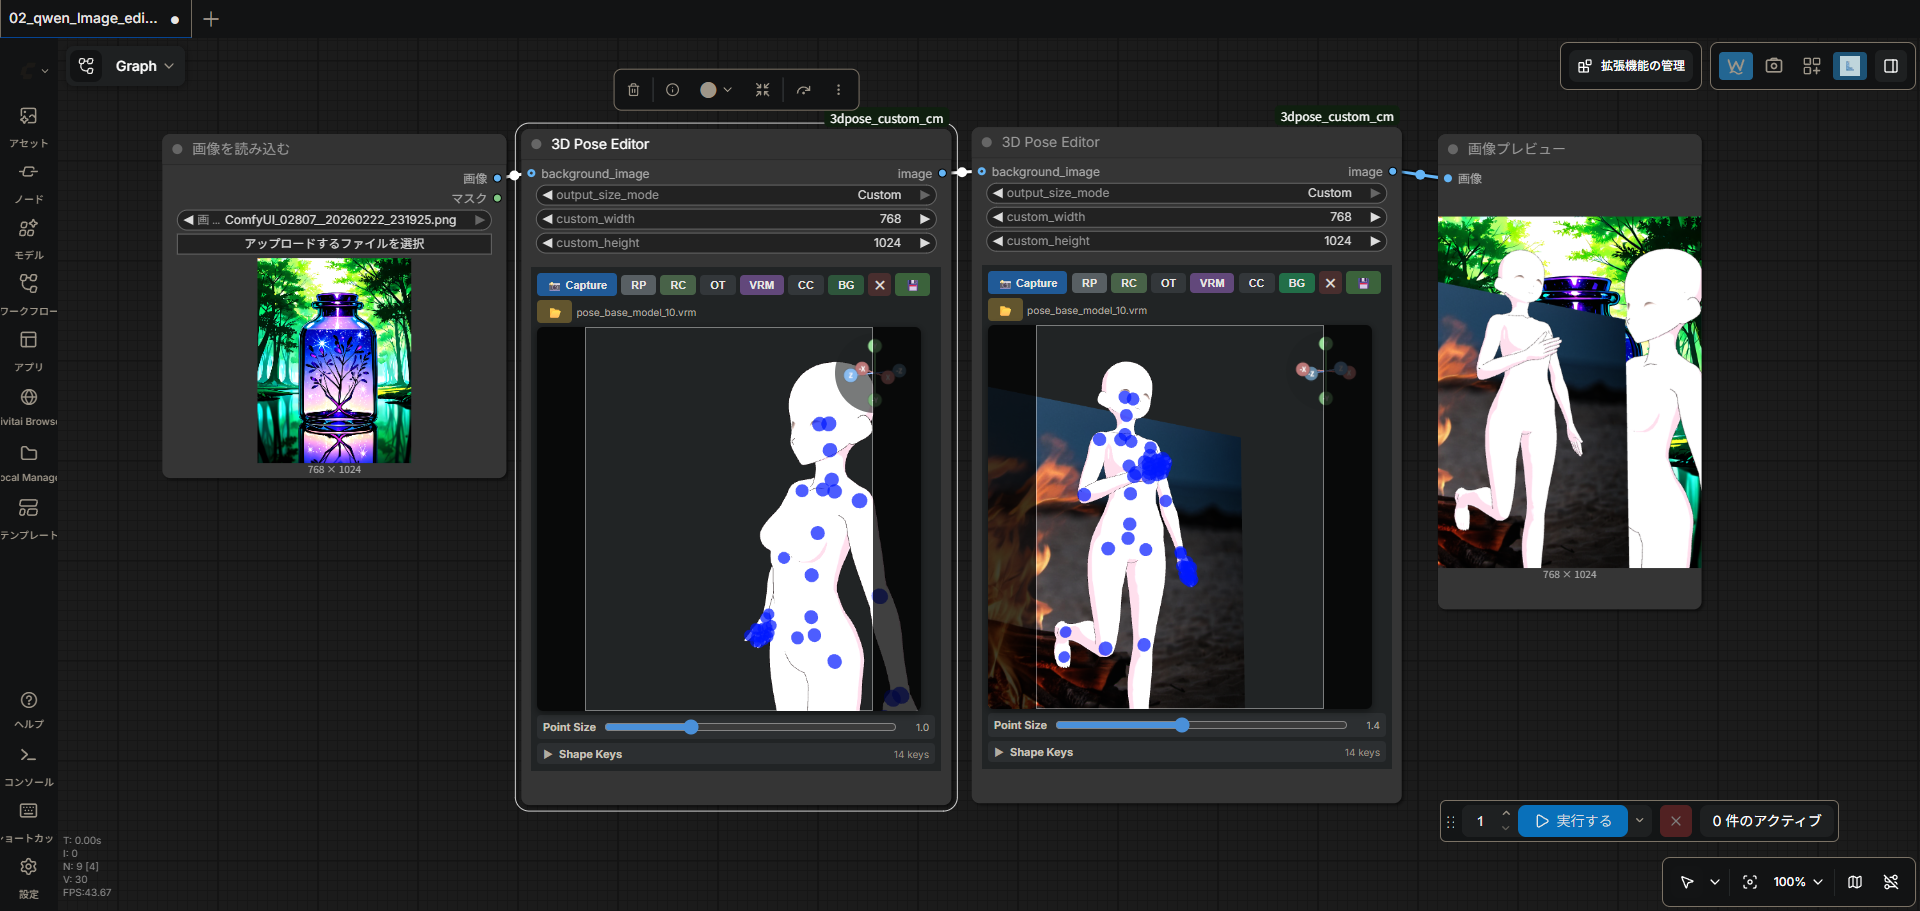
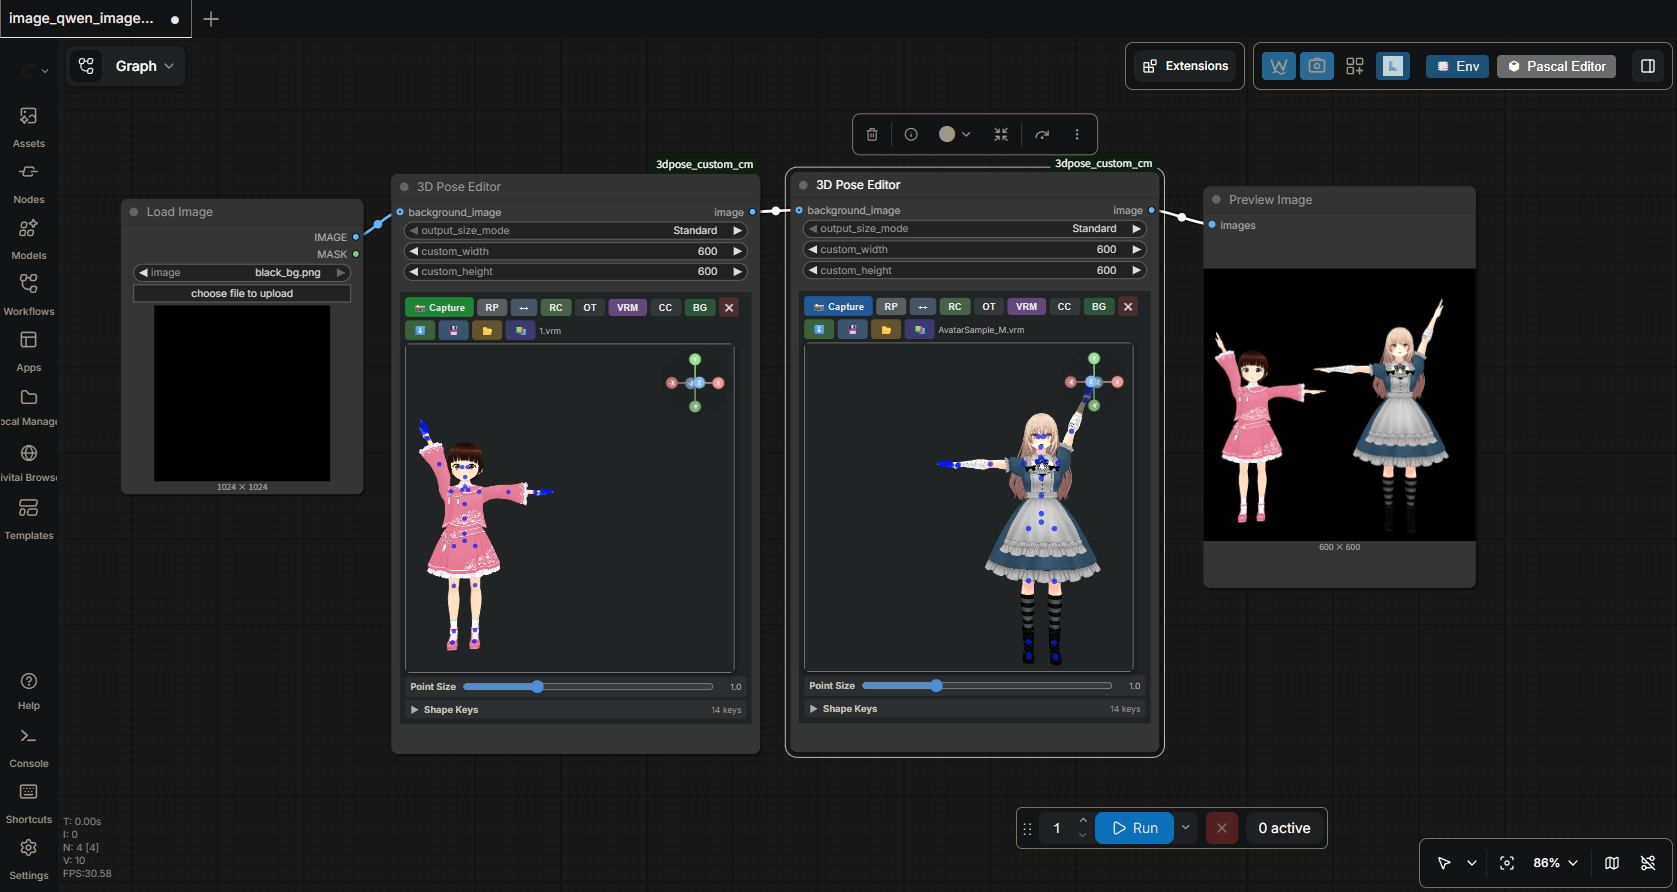
docs: README英語/日本語バイリンガル対応、スクリーンショット更新
- READMEを英語/日本語バイリンガルに全面改訂
  - 英語セクションを先頭に配置
  - ⬇、💾、↔、📚 の全新ボタンをドキュメント化
  - ポーズライブラリ・左右反転・アスペクト比フレームのセクション追加
  - Node I/O と技術仕様を更新
- docs/screenshot_workflow.png を最新UIで更新
- docs/screenshot_pose_library.png を新規追加（ポーズライブラリ画面）

diff --git a/README.md b/README.md
@@ -1,176 +1,267 @@
 # 3D Pose Editor — ComfyUI Custom Node
 
-ComfyUI 上で動作するインタラクティブな 3D ポーズエディタノードです。
-VRM・GLB・GLTF モデルをブラウザから直接読み込み、ボーンをドラッグ操作してポーズを付け、そのままワークフローに出力できます。
+[![Three.js](https://img.shields.io/badge/Three.js-r160-black)](https://threejs.org/)
+[![three-vrm](https://img.shields.io/badge/@pixiv/three--vrm-2.1.0-ff69b4)](https://github.com/pixiv/three-vrm)
+[![ComfyUI](https://img.shields.io/badge/ComfyUI-Custom%20Node-blue)](https://github.com/comfyanonymous/ComfyUI)
 
-![Three.js](https://img.shields.io/badge/Three.js-r160-black)
-![three-vrm](https://img.shields.io/badge/@pixiv/three--vrm-2.1.0-ff69b4)
-![ComfyUI](https://img.shields.io/badge/ComfyUI-Custom%20Node-blue)
+An interactive 3D pose editor node for ComfyUI.  
+Load VRM / GLB / GLTF models directly in the browser, drag bones to pose them, and output the result to your workflow.
+
+ComfyUI 上で動作するインタラクティブな 3D ポーズエディタノードです。  
+VRM・GLB・GLTF モデルをブラウザから直接読み込み、ボーンをドラッグ操作してポーズを付け、そのままワークフローに出力できます。
 
 ![screenshot](docs/screenshot_workflow.png)
 
+![pose library](docs/screenshot_pose_library.png)
+
 ---
 
-## 機能一覧
+## English
+
+### Features / Buttons
+
+| Button | Function |
+|--------|----------|
+| 📸 Capture | Send current pose as PNG to node output |
+| RP | Reset pose |
+| ↔ | Mirror pose (flip left ↔ right) |
+| RC | Reset camera |
+| OT / PR | Toggle Orthographic / Perspective camera |
+| VRM | Load VRM / GLB / GLTF file from local disk |
+| CC | Color correction ON/OFF (sRGB + ACES Filmic) |
+| BG | Load background image from local disk |
+| ✕ | Clear background image |
+| ⬇ | Download current pose as JSON file |
+| 💾 | Save current pose to `poses/` folder |
+| 📂 | Load pose file (.json / .vroidpose) |
+| 📚 | Open Pose Library |
+
+### Installation
+
+#### Option A: ComfyUI Manager (Recommended)
+
+1. Open ComfyUI Manager and click **"Install Custom Nodes"**.
+2. Search for `comfyui-vrm-pose-editor`.
+3. Click **Install** and restart ComfyUI.
+
+#### Option B: Manual
+
+1. Place the `3dpose_custom_cm` folder inside `ComfyUI/custom_nodes/`.
+2. Restart ComfyUI.
+3. Add the **"3D Pose Editor"** node (category: `3D Pose`) from the node menu.
+
+### Camera Controls
+
+| Action | Result |
+|--------|--------|
+| Left drag | Rotate camera |
+| Ctrl + Left drag | Pan |
+| Right drag | Pan |
+| Scroll wheel | Zoom |
+| Alt + Left drag | Zoom (Node 2.0 mode) |
+| Click gizmo X/Y/Z axis | Snap to that view direction |
+
+### Bone Controls
+
+Drag the blue control points on each bone joint.
+
+| Action | Rotation |
+|--------|----------|
+| Left / Right drag | Y-axis |
+| Up / Down drag | X-axis |
+| Alt + Up / Down drag | Z-axis |
+
+### Loading Models
+
+Click the **VRM** button to select a local `.vrm` / `.glb` / `.gltf` file.  
+The model is automatically scaled and centred.
+
+- **VRM**: bones detected via `@pixiv/three-vrm` HumanBone.
+- **GLB / GLTF**: works with any skeleton-based model.
+
+### Default Model
+
+Place one of the following files in the `js/` folder to auto-load on startup:
+
+| Filename | Format |
+|----------|--------|
+| `model.glb` | GLB |
+| `model.vrm` | VRM |
+| `model.gltf` | GLTF |
+
+Priority: `model.glb` → `model.vrm` → `model.gltf`. If none exist, the editor starts without a model.
+
+### Pose Library (📚)
+
+Click the **📚** button on any node to open the Pose Library.
+
+- Pose files (`.json` / `.vroidpose`) stored in the `poses/` folder are displayed as thumbnails.
+- **Subdirectory filtering**: create subfolders inside `poses/` to organise poses by category; select a folder from the dropdown to filter.
+- **Click** a thumbnail to apply the pose immediately.
+- **Right-click** for more options:
+  - ↔ Mirror & Apply
+  - ⭐ Add / Remove Favorites
+  - 📝 Edit Memo
+  - ✏ Rename File
+  - 🖼 Regenerate Thumbnail (Front / Back)
+- **💾 Save**: saves the current editor pose to the `poses/` folder as `p_HHMMSS.json`.
+- Thumbnails are auto-generated using the loaded VRM model and cached server-side.
+
+### Pose Save / Load
+
+| Button | Action |
+|--------|--------|
+| ⬇ | Download pose as `pose.json` (browser download) |
+| 💾 | Save pose to `poses/p_HHMMSS.json` on the server |
+| 📂 | Load pose file (or drop onto canvas) |
+
+Supported formats:
+
+| Format | Description |
+|--------|-------------|
+| `.json` (own format) | Saved by ⬇ or 💾 |
+| `.vroidpose` | VRoid Studio pose file (body / arms / legs; finger presets not supported) |
+
+#### VRM0 / VRM1 Compatibility
+
+Pose JSON is saved in **version 2** format (quaternion + `vrmVersion` tag).  
+Cross-version conversion (VRM0 ↔ VRM1) is applied automatically on load.  
+Legacy version 1 (Euler angles) files are still supported.
+
+### Mirror Pose (↔)
+
+Click **↔** on the node (or right-click → **↔ Mirror & Apply** in the Pose Library) to flip the current pose left ↔ right.  
+Left/Right bone pairs are swapped and quaternions are YZ-flipped `(qx, -qy, -qz, qw)`.
+
+### Aspect Ratio Frame
+
+When `output_size_mode` is **Custom**, a letterbox overlay is drawn in real time to show the output crop area.  
+**Capture** outputs only the framed region — no stretching.
+
+### Shape Keys
+
+Click the **Shape Keys** header at the bottom of the node to expand the panel.  
+Adjust morphs / expressions with sliders (0.0 – 1.0) in real time.
+
+### Color Correction (CC)
+
+Toggle sRGB color space + ACES Filmic tone mapping.  
+Enable if VRoid Studio / Blender models appear too dark.
+
+---
+
+## 日本語
+
+### 機能・ボタン一覧
 
 | ボタン | 機能 |
-|---|---|
+|--------|------|
 | 📸 Capture | 現在のポーズを PNG としてノード出力に送信 |
 | RP | ポーズをリセット |
+| ↔ | ポーズを左右反転 |
 | RC | カメラをリセット |
-| OT / PR | カメラを Orthographic / Perspective に切り替え |
+| OT / PR | Orthographic / Perspective カメラを切り替え |
 | VRM | VRM / GLB / GLTF ファイルをローカルから読み込む |
 | CC | カラー補正 ON/OFF（sRGB + ACES Filmic） |
 | BG | 背景画像をローカルから読み込む |
 | ✕ | 背景画像をクリア |
-| 💾 | 現在のポーズを JSON ファイルとして保存 |
+| ⬇ | 現在のポーズを JSON ファイルとしてダウンロード |
+| 💾 | 現在のポーズを `poses/` フォルダに保存 |
 | 📂 | ポーズファイルを読み込む（.json / .vroidpose） |
+| 📚 | ポーズライブラリを開く |
 
----
+### インストール
 
-## インストール
+#### Option A: ComfyUI Manager（推奨）
 
-### Option A: ComfyUI Manager（推奨）
+1. ComfyUI Manager を開き、**「カスタムノードをインストール」** をクリック。
+2. `comfyui-vrm-pose-editor` を検索。
+3. **Install** をクリックして ComfyUI を再起動。
 
-1. ComfyUI Manager を開き、**「カスタムノードを管理」** をクリックします。
-2. 検索欄に `comfyui-vrm-pose-editor` と入力します。
-3. **Install** をクリックして ComfyUI を再起動します。
+#### Option B: 手動インストール
 
-### Option B: 手動インストール
-
-1. `3dpose_custom_cm` フォルダを `ComfyUI/custom_nodes/` 以下に配置します。
-2. ComfyUI を再起動します。
-3. ノードメニューで **"3D Pose Editor"**（カテゴリ: `3D Pose`）を追加します。
-
----
-
-## 使い方
+1. `3dpose_custom_cm` フォルダを `ComfyUI/custom_nodes/` に配置。
+2. ComfyUI を再起動。
+3. ノードメニューから **"3D Pose Editor"**（カテゴリ: `3D Pose`）を追加。
 
 ### カメラ操作
 
 | 操作 | 動作 |
-|---|---|
+|------|------|
 | 左ドラッグ | カメラ回転 |
 | Ctrl + 左ドラッグ | パン（平行移動） |
 | 右ドラッグ | パン（平行移動） |
 | ホイール | ズーム |
-| Alt + 左ドラッグ | ズーム（Node2.0モード時） |
-| ビューギズモのX/Y/Z軸クリック | その軸方向からのビューにスナップ |
+| Alt + 左ドラッグ | ズーム（Node2.0 モード時） |
+| ビューギズモ軸クリック | その方向へスナップ |
 
 ### ボーン操作
 
 ボーン上の青い点（コントロールポイント）をドラッグします。
 
 | 操作 | 動作 |
-|---|---|
+|------|------|
 | 左右ドラッグ | Y 軸回転 |
 | 上下ドラッグ | X 軸回転 |
 | Alt + 上下ドラッグ | Z 軸回転 |
 
-### モデルの読み込み
+### ポーズライブラリ（📚）
 
-**VRM** ボタンをクリックしてローカルの `.vrm` / `.glb` / `.gltf` ファイルを選択します。
-モデルは自動でスケーリング・センタリングされます。
+ノード上の **📚** ボタンをクリックするとポーズライブラリが開きます。
 
-- **VRM ファイル**: `@pixiv/three-vrm` の HumanBone を使用してボーンを認識します。
-- **GLB / GLTF ファイル**: 骨格（Bone）ベースのモデルであればそのまま動作します。
+- `poses/` フォルダ内のポーズファイル（`.json` / `.vroidpose`）をサムネイル一覧で表示。
+- **サブディレクトリフィルター**: `poses/` 内にサブフォルダを作成してポーズをカテゴリ分けし、ドロップダウンで絞り込み。
+- サムネイルを**クリック**するとポーズを即時適用。
+- **右クリック**でメニュー:
+  - ↔ Mirror & Apply（左右反転して適用）
+  - ⭐ お気に入り追加 / 解除
+  - 📝 メモ編集
+  - ✏ ファイル名変更
+  - 🖼 サムネイル再生成（正面 / 背面）
+- **💾 Save**: 現在のエディタのポーズを `poses/p_HHMMSS.json` として保存。
+- サムネイルは読み込み済み VRM を使ってオフスクリーンで自動生成・キャッシュ。
+
+### ポーズ左右反転（↔）
+
+ノードの **↔** ボタン、またはポーズライブラリの右クリックメニュー **↔ Mirror & Apply** で現在のポーズを左右反転します。  
+Left/Right ボーンペアを入れ替え、クォータニオンを YZ 反転 `(qx, -qy, -qz, qw)` して適用します。
 
 ### デフォルトモデルの設定
 
-ノード起動時に自動で読み込まれるモデルを設定できます。
-`js/` フォルダに以下のいずれかのファイル名でモデルを配置してください：
+`js/` フォルダに以下のいずれかを配置すると起動時に自動ロードされます。
 
 | ファイル名 | 形式 |
-|---|---|
+|-----------|------|
 | `model.glb` | GLB |
 | `model.vrm` | VRM |
 | `model.gltf` | GLTF |
 
-優先順位は `model.glb` → `model.vrm` → `model.gltf` の順です。
-いずれも存在しない場合はモデルなしで起動します。
-
-### 背景画像
-
-**BG** ボタンで PNG / JPG などの画像ファイルを読み込むと、Three.js シーン内の背景板（PlaneGeometry）として表示されます。
-**📸 Capture** 時にはモデルと背景が同一レンダリングに含まれた状態で出力されます。
-**✕** ボタンで背景を削除できます。
-
-> `background_image` 入力ポートに別ノードから画像を接続した場合は、Python 側で Capture 後に合成されます（両方設定した場合は二重合成になるため注意）。
-
-### Shape Keys（シェイプキー）
-
-ノード下部の **Shape Keys** ヘッダーをクリックするとパネルが展開します。
-モデルに含まれるシェイプキー・表情をスライダー（0.0 〜 1.0）でリアルタイムに操作できます。
-
-| モデル形式 | 取得元 |
-|---|---|
-| GLTF / GLB | `morphTargetDictionary`（Blender などで設定した名前） |
-| VRM | `ExpressionManager`（`happy`, `sad`, `blink` などの VRM 標準表情） |
-
-### カラー補正（CC）
-
-**CC** ボタンで sRGB カラースペース + ACES Filmic トーンマッピングを ON/OFF できます。
-VROID Studio エクスポートや Blender 製モデルで暗く見える場合は ON にしてください。
-
-### ポーズの保存・読み込み
-
-**💾** ボタンで現在のポーズを `pose.json` としてダウンロードします。
-**📂** ボタンまたはキャンバスへのドロップでポーズファイルを読み込みます。
-
-対応フォーマット:
-
-| フォーマット | 説明 |
-|---|---|
-| `.json`（自前形式） | 💾 ボタンで保存したファイル |
-| `.vroidpose` | VRoid Studio のポーズファイル（体幹・腕・脚対応、手指は非対応） |
-
-> キャンバスへのドロップは `.json` / `.vroidpose` のほか、`.vrm` / `.glb` / `.gltf` にも対応しています。
-
-#### VRM0 / VRM1 間のポーズ互換
-
-💾 で保存するポーズ JSON は **version 2 形式**（クォータニオン + `vrmVersion` タグ）です。  
-VRM0 で保存したポーズを VRM1 モデルに読み込む場合（またはその逆）、クォータニオンの座標系変換を自動で適用します。  
-旧形式（version 1、オイラー角）のファイルも引き続き読み込み可能です。
-
-### カメラモード切り替え（OT / PR）
-
-**OT** ボタンで Orthographic（平行投影）カメラに切り替えます。切り替え後は **PR** ボタンで Perspective（透視投影）に戻ります。
-切り替え時に現在の視点・距離を引き継ぐため、違和感なく行き来できます。
-
-### アスペクト比フレーム
-
-`output_size_mode` が **Custom** のとき、指定した `custom_width` / `custom_height` の縦横比に合わせたフレームがビュワー内にリアルタイム表示されます。
-フレーム外は黒帯で暗転し、**Capture** 時はフレーム内のみをクロップして出力するため、モデルがストレッチされません。
-
-### コントロールポイントサイズ
-
-**Point Size** スライダーでボーンの操作点（青い球）のサイズを 0.2〜3.0 の範囲で変更できます。
-手の指ボーンなど密集した部分の操作がしやすくなります。
+優先順位: `model.glb` → `model.vrm` → `model.gltf`
 
 ---
 
-## ノードの入出力
+## Node I/O
 
-| 項目 | 種類 | 説明 |
-|---|---|---|
-| `background_image` | IMAGE（オプション） | Python 側で Capture 画像に合成する背景 |
-| `output_size_mode` | Standard / Background / Custom | 出力解像度の決定方法 |
-| `custom_width` / `custom_height` | INT | Custom モード時の出力サイズ |
-| **output: image** | IMAGE | ポーズキャプチャ画像（Torch テンソル） |
+| Item | Type | Description |
+|------|------|-------------|
+| `background_image` | IMAGE (optional) | Background composited with the captured pose on the Python side |
+| `output_size_mode` | Standard / Background / Custom | Output resolution mode |
+| `custom_width` / `custom_height` | INT | Output size in Custom mode |
+| **output: image** | IMAGE | Captured pose image (Torch tensor) |
 
 ---
 
-## 技術仕様
+## Technical Specs
 
-- **フロントエンド**: JavaScript + [Three.js r160](https://threejs.org/) + [@pixiv/three-vrm 2.1.0](https://github.com/pixiv/three-vrm)（esm.sh 経由）
-- **バックエンド**: Python（Base64 PNG → PIL → Torch Tensor 変換）
-- **キャプチャ**: 出力縦横比に合わせたフレーム内をクロップして出力（モデルのストレッチなし）
-- **カメラ**: Perspective（FOV 45°）/ Orthographic 切り替え対応
-- **デフォルトモデル**: `js/model.glb` / `js/model.vrm` / `js/model.gltf` のいずれかを配置（優先順に検索）
-- **ポーズ JSON**: version 2 形式（クォータニオン + `vrmVersion` タグ、VRM0/VRM1 間互換）
-- **VRM0 クォータニオン変換**: Unity 左手系 → Three.js 右手系 `(x, y, -z, -w)`
-- **VRM1 クォータニオン変換**: VRM0変換後にVRM0→VRM1変換 `(x, -y, z, -w)` を追加適用
-- **カメラ初期位置**: VRM0 ロード時は Z=-5（正面が Z 負方向）、VRM1/GLB は Z=+5 に自動切り替え
+- **Frontend**: JavaScript + [Three.js r160](https://threejs.org/) + [@pixiv/three-vrm 2.1.0](https://github.com/pixiv/three-vrm) (bundled locally)
+- **Backend**: Python — Base64 PNG → PIL → Torch Tensor
+- **Pose Library API**: aiohttp routes registered via `@PromptServer.instance.routes`
+- **Capture**: letterbox-cropped to output aspect ratio (no stretching)
+- **Camera**: Perspective (FOV 45°) / Orthographic toggle
+- **Pose JSON**: version 2 (quaternion + `vrmVersion` tag, VRM0/VRM1 cross-compatible)
+- **VRM0 quaternion**: Unity left-hand → Three.js right-hand `(x, y, -z, -w)`
+- **VRM1 quaternion**: VRM0 conversion + VRM0→VRM1 `(x, -y, z, -w)`
+- **Pose mirror**: Left↔Right bone swap + YZ-flip `(qx, -qy, -qz, qw)`
 
 ---
 
